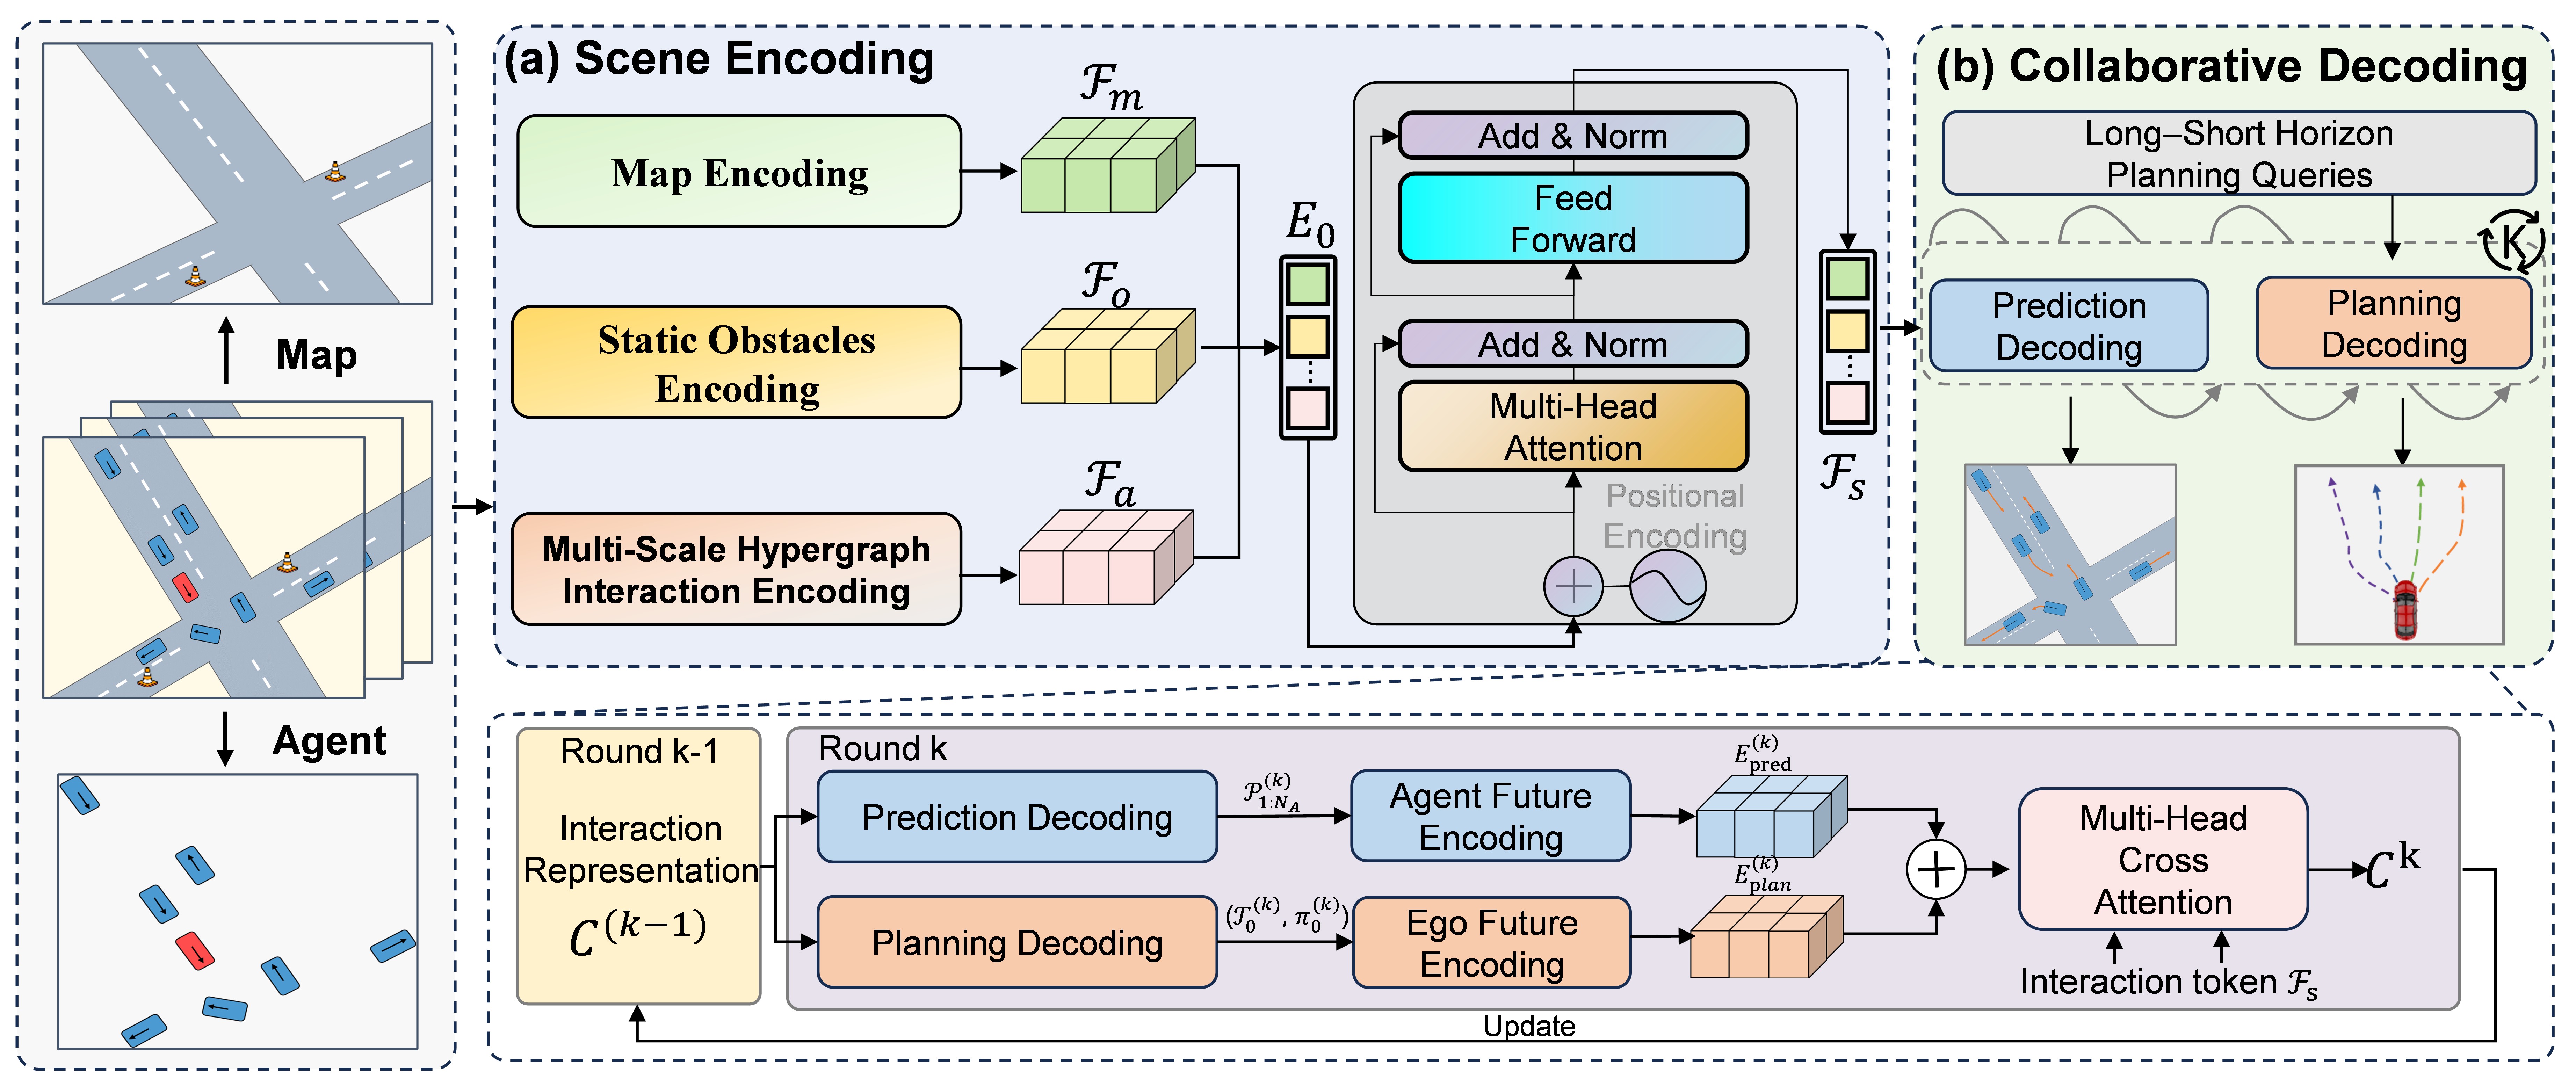
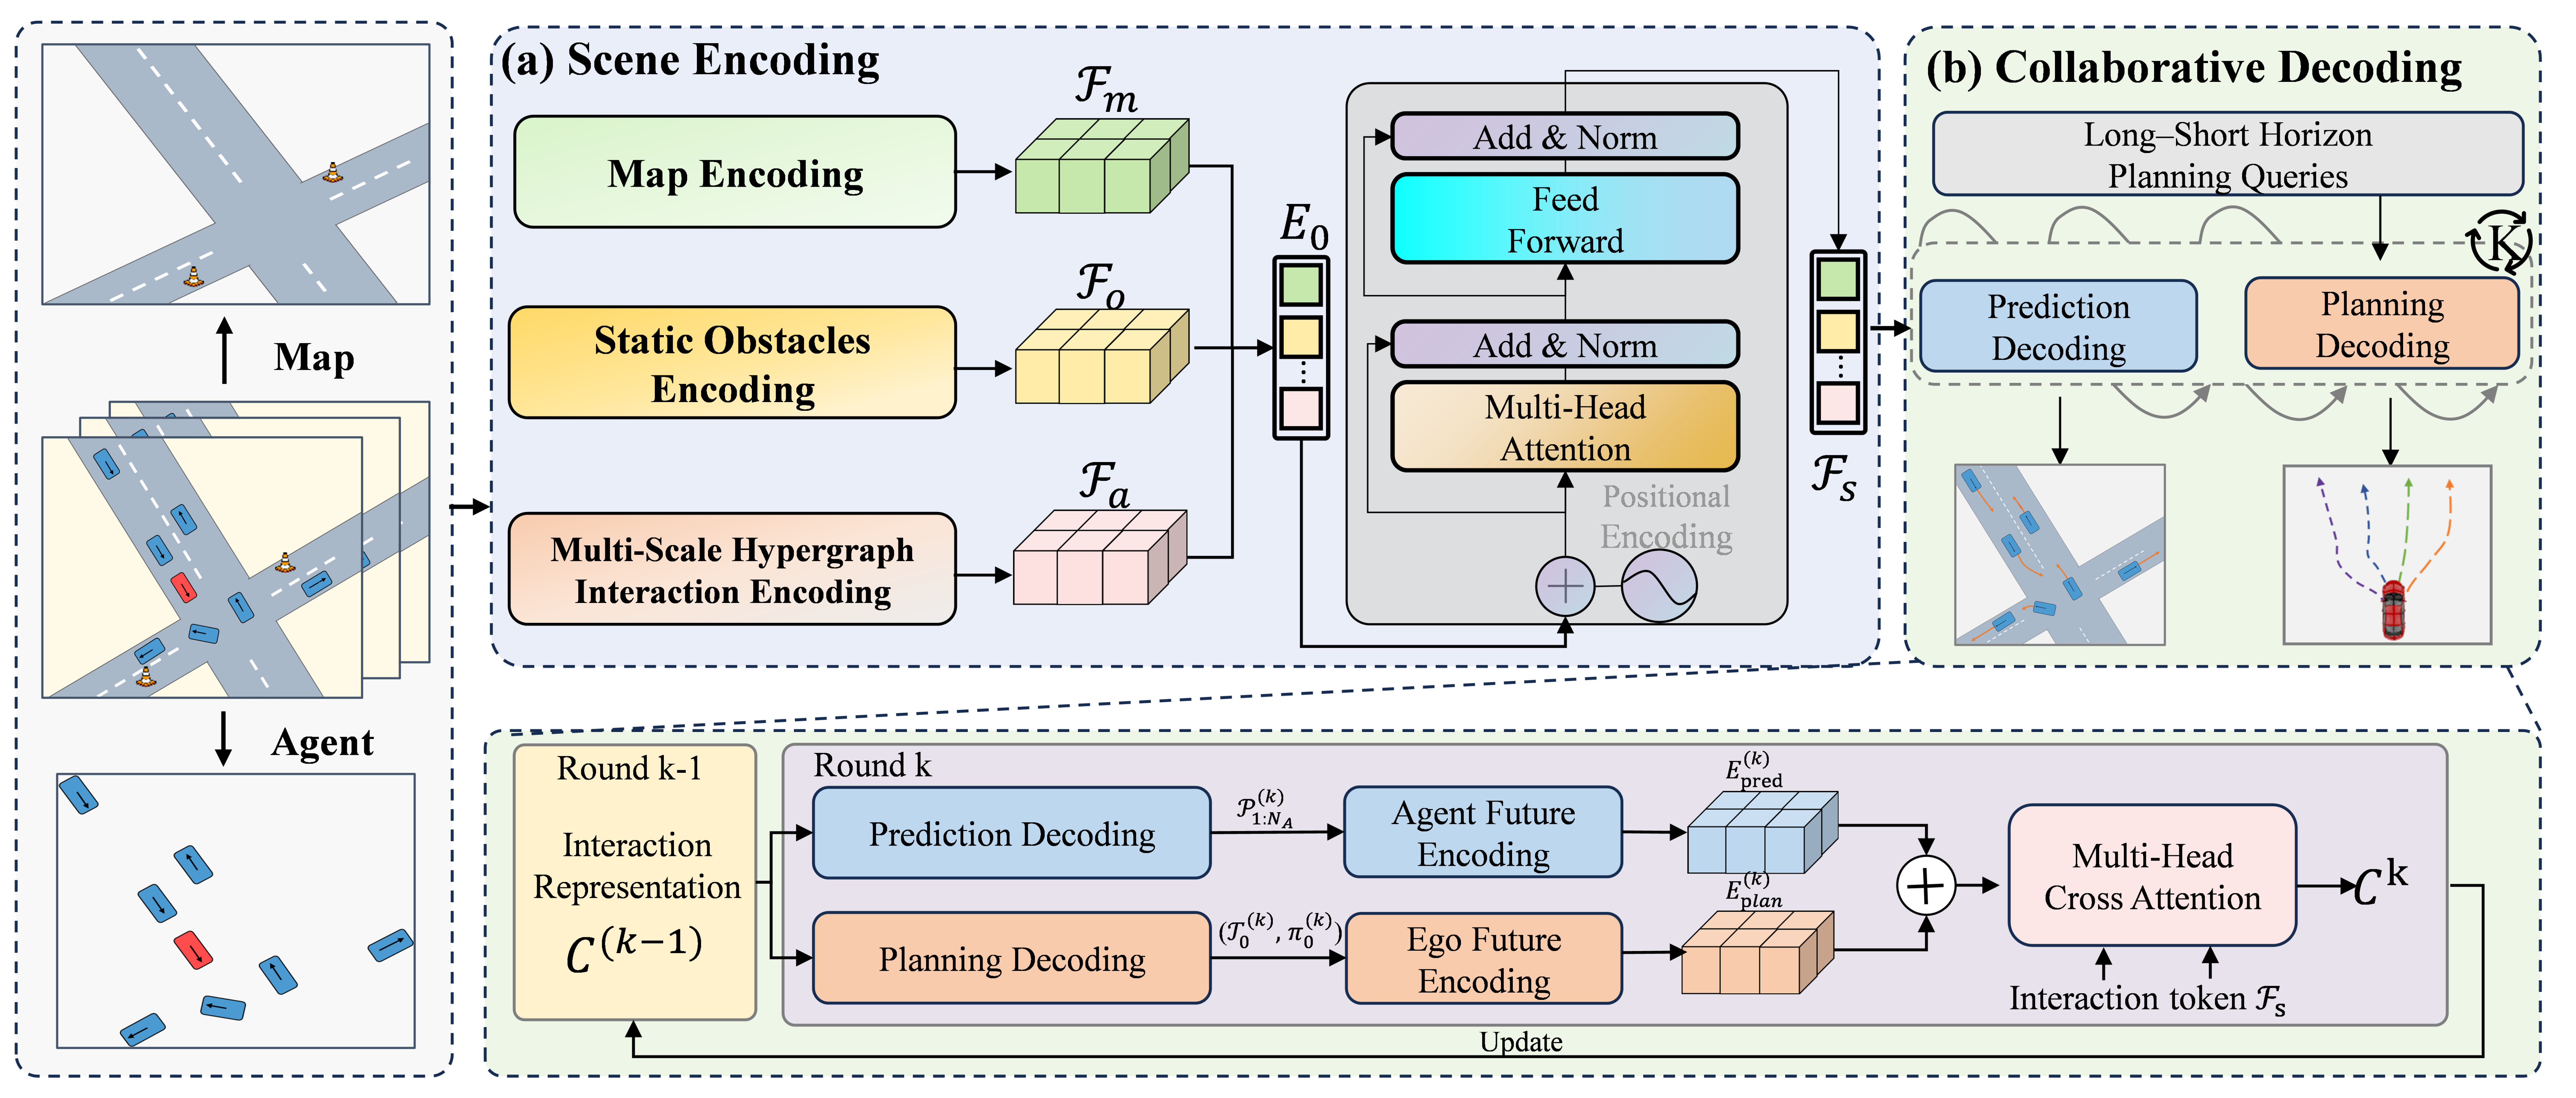
Edit the webpage

Changed region(s): [[0.0, 0.0311, 0.9984, 0.9948], [0.0, 0.0311, 0.3744, 0.3109], [0.0, 0.6839, 0.0624, 0.7461]]

diff --git a/index.html b/index.html
@@ -533,66 +533,53 @@
             <div class="container title-container">
                 <div class="columns is-centered">
                     <div class="column has-text-centered">
-                    <h1 class="title is-1 has-text-centered paper-title">
-                        <span class="title-blue">InterP<sup>2</sup></span>: Multiscale Hypergraph-Enhanced Joint<br>
-                        <span class="title-blue">P</span>rediction and 
-                        <span class="title-blue">P</span>lanning for 
-                        <span class="no-break"><span class="title-blue">Inter</span>active Driving</span>
-                    </h1>
-                    <div class="author-info">
-                        <p class="authors">
-                            <a href="#" target="_blank">Chen Shao<sup>1</sup></a>,
-                            <a href="#" target="_blank">Xuting Duan<sup>1,2</sup></a>,
-                            <a href="#" target="_blank">Qi Wang<sup>1</sup></a>,
-                            <a href="#" target="_blank">Jianshan Zhou<sup>1</sup></a>,
-                            <a href="#" target="_blank">Ling Wang<sup>3</sup></a>,
-                            <a href="#" target="_blank">Daxin Tian<sup>1,2</sup></a>
-                        </p>
+                        <h1 class="title is-1 has-text-centered paper-title">
+                            <span class="title-blue">EIR-P<sup>2</sup></span>: 
+                            <span class="title-blue">E</span>volving 
+                            <span class="title-blue">I</span>nteraction 
+                            <span class="title-blue">R</span>epresentations for Coupled<br>
+                            <span class="title-blue">P</span>rediction and 
+                            <span class="title-blue">P</span>lanning in Autonomous Driving
+                        </h1>
 
-                        <p class="affiliation">
-                            <sup>1</sup>School of Transportation Science and Engineering, Beihang University, Beijing, China
-                        </p>
-                        <p class="affiliation">
-                            <sup>2</sup>Zhongguancun Laboratory, Beijing, China
-                        </p>
-                        <p class="affiliation">
-                            <sup>3</sup>Department of Automation, Tsinghua University, Beijing, China
-                        </p>
-                    </div>
-                     
-                     
-                     
+                        <div class="author-info">
+                            <p class="authors">
+                                <a href="#" target="_blank">Chen Shao<sup>1</sup></a>,
+                                <a href="#" target="_blank">Xuting Duan<sup>1,2</sup></a>,
+                                <a href="#" target="_blank">Qi Wang<sup>1</sup></a>,
+                                <a href="#" target="_blank">Jianshan Zhou<sup>1</sup></a>,
+                                <a href="#" target="_blank">Ling Wang<sup>3</sup></a>,
+                                <a href="#" target="_blank">Daxin Tian<sup>1,2</sup></a>
+                            </p>
+
+                            <p class="affiliation">
+                                <sup>1</sup>School of Transportation Science and Engineering, Beihang University, Beijing, China
+                            </p>
+                            <p class="affiliation">
+                                <sup>2</sup>Zhongguancun Laboratory, Beijing, China
+                            </p>
+                            <p class="affiliation">
+                                <sup>3</sup>Department of Automation, Tsinghua University, Beijing, China
+                            </p>
+                        </div>
                     </div>
                 </div>
             </div>
         </div>
     </section>
 
-    <!-- <section class="hero teaser"> -->
-        <!-- <div class="container is-max-desktop"> -->
-            <!-- <div class="hero-body"> -->
-                <!-- <video poster="" id="teaser" autoplay controls muted loop playsinline preload="metadata"> -->
-                    <!-- <source src="media/videos/VEDIO2/near/63e48fa44d7c5aa4.mp4" type="video/mp4"> -->
-                <!-- </video> -->
-                <!-- <h2 class="subtitle has-text-centered mt-4"> -->
-                    <!-- InterP<sup>2</sup> performs interaction-aware planning by jointly reasoning about surrounding agents' future evolution and the ego vehicle's feasible motion, enabling safe, smooth, and context-adaptive driving behaviors in complex traffic scenes. -->
-                <!-- </h2> -->
-            <!-- </div> -->
-        <!-- </div> -->
-    <!-- </section> -->
 <section class="section abstract-section">
     <div class="container abstract-container">
         <h2 class="title has-text-centered abstract-title">Abstract</h2>
 
         <div class="abstract-content">
             <p>
-            In complex interactive driving scenarios, ego trajectory planning and scene evolution are continuously coupled over the future horizon rather than being independent processes. However, existing methods mostly adopt a one-shot paradigm, where the ego trajectory is generated only once from the current scene context, making it difficult to capture evolving interactions during planning. To address this issue, this paper proposes <strong>InterP<sup>2</sup></strong>, a joint <u>p</u>rediction and <u>p</u>lanning framework for <u>inter</u>active driving. InterP<sup>2</sup> first constructs multi-scale hypergraphs to encode group-wise high-order interactions among traffic agents at different spatial granularities. Then, an Interaction-Representation-Driven Collaborative Decoder is designed to enable multi-round information exchange between traffic-agent prediction and ego planning through a continuously updated interaction representation. In addition, Long--Short Horizon Planning Queries are introduced to capture behavioral tendencies at different temporal scales, improving the flexibility and consistency of planning decisions. Extensive experiments on the nuPlan and interPlan benchmarks demonstrate that InterP<sup>2</sup> outperforms existing advanced planning methods and exhibits strong competitiveness across multiple representative interactive scenarios, validating its effectiveness and robustness in complex interactive driving environments.
+                In complex interactive scenarios, ego planning and the future evolution of the scene are tightly coupled over the prediction horizon. Existing methods often generate the full future ego trajectory from the current observation in a single planning pass. This one-shot formulation does not explicitly model the directional dependence between prediction and planning, which limits the ability of the resulting plans to respond to evolving interactions. To address this problem, this paper proposes EIR-P<sup>2</sup>, a coupled prediction and planning framework. EIR-P<sup>2</sup> maintains an interaction representation as a shared intermediate state and updates it through collaborative decoding, enabling the model to capture the dynamic coupling between traffic-agent prediction and ego trajectory planning. The framework first constructs multi-scale hypergraphs to encode group-wise high-order interactions among traffic agents at different spatial granularities. It then uses an interaction-representation-driven collaborative decoder to support multi-round information exchange between traffic-agent prediction and ego planning. Long&ndash;Short Horizon Planning Queries are further proposed to represent behavioral tendencies at different temporal scales, generate multimodal ego trajectory candidates, and improve planning adaptability in dynamic interactive scenarios. Experiments on the NuPlan and InterPlan benchmarks show that EIR-P<sup>2</sup> achieves better overall performance than existing advanced planning methods and shows strong performance across several representative interactive scenarios, demonstrating its effectiveness and robustness in complex interactive driving environments.
             </p>
-
-
         </div>
     </div>
 </section>
+
 
 <section class="section hero is-light section-banner">
     <div class="container is-max-desktop">
@@ -608,32 +595,32 @@
     <div class="container model-container">
         <div class="model-panel">
 
+            <p class="section-intro">
+                The main contributions of this paper are summarized as follows:
+            </p>
+
             <ul class="contribution-list">
                 <li>
-                    We propose <strong>InterP<sup>2</sup></strong>, a joint prediction and planning framework for interactive driving, to characterize the coupling between traffic-agent behavior prediction and ego trajectory planning.
+                    We propose <strong>EIR-P<sup>2</sup></strong>, a coupled prediction and planning framework for interactive driving scenarios. It models the coupling between traffic-agent behavior prediction and ego trajectory planning through a continuously evolving interaction representation, rather than treating the two tasks as independent or weakly related.
                 </li>
                 <li>
-                    To capture complex multi-agent interactions, a Multi-scale Hypergraph Interaction Encoding module is designed to model group-wise high-order interactions among traffic agents at different spatial granularities.
+                    We design a Multi-scale Hypergraph Interaction Encoding module to characterize group-wise high-order interactions among traffic agents at different spatial granularities. By constructing dynamic hyperedges over multiple agents, this module captures complex multi-agent interaction structures beyond pairwise relations.
                 </li>
                 <li>
-                    An Interaction-Representation-Driven Collaborative Decoder is introduced to support multi-round collaboration between prediction and planning through a continuously updated interaction representation.
+                    We introduce an Interaction-Representation-Driven Collaborative Decoder with Long&ndash;Short Horizon Planning Queries. The decoder enables multi-round information exchange and collaborative reasoning between prediction and planning, thereby improving the adaptability of ego planning in complex interactive scenarios.
                 </li>
             </ul>
-            
- 
-            </div>
+        </div>
 
-            <div class="model-figure-wrapper">
-                <img 
-                    src="media/images/overal.png" 
-                    alt="EIR-P2 model architecture" 
-                    class="model-figure"
-                >
-                <p class="figure-caption">
-                    Figure 1: Overall pipeline of InterP<sup>2</sup>.
-                </p>
-            </div>
-
+        <div class="model-figure-wrapper">
+            <img 
+                src="media/images/overal.png" 
+                alt="EIR-P2 model architecture" 
+                class="model-figure"
+            >
+            <p class="figure-caption">
+                Figure 1: Overall pipeline of EIR-P<sup>2</sup>.
+            </p>
         </div>
     </div>
 </section>